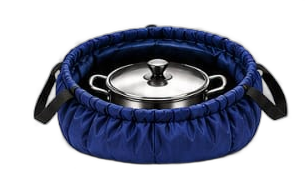
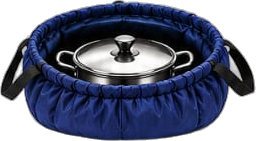
Remove step image backgrounds

diff --git a/app/globals.css b/app/globals.css
@@ -51,7 +51,7 @@ a { color: inherit; }
 
 .steps { list-style: none; margin: 0; padding: 0; display: grid; grid-template-columns: repeat(4, 1fr); gap: 1.5rem; }
 .steps li { border-top: 4px solid var(--gold); padding-top: 1rem; }
-.step-image { display: block; width: 100%; height: 132px; object-fit: contain; margin: .75rem 0 1rem; border-radius: .8rem; background: #f5f3ed; }
+.step-image { display: block; width: 100%; height: 132px; object-fit: contain; margin: .75rem 0 1rem; border-radius: .8rem; background: transparent; }
 .n { display: inline-grid; place-items: center; width: 2.2rem; height: 2.2rem; border-radius: 50%; background: var(--navy); color: var(--gold); font-family: var(--font-head); font-weight: 700; margin-bottom: .6rem; }
 
 .why { display: grid; grid-template-columns: repeat(3, 1fr); gap: 2rem; }
